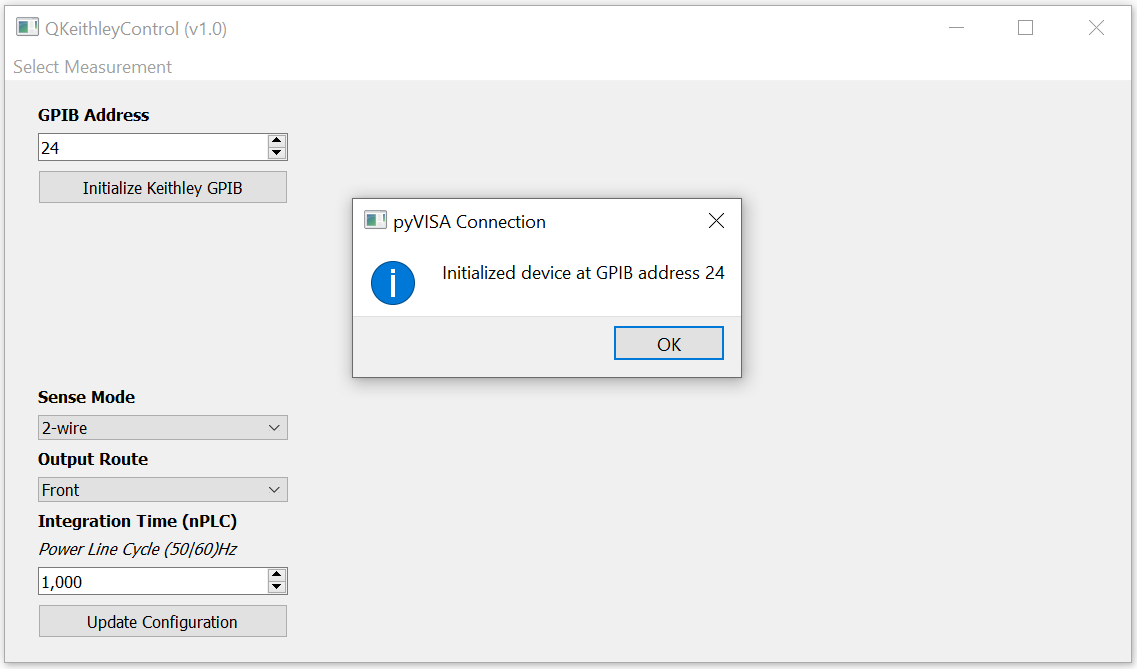
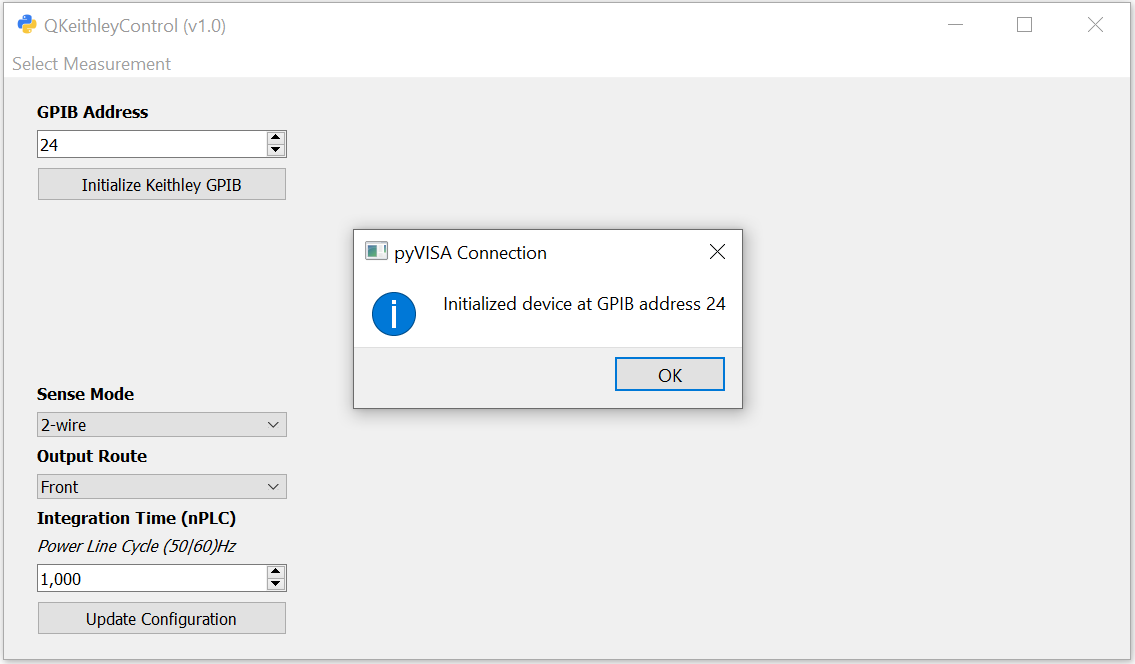
v1.0

diff --git a/QKeithleyControl/modules/QKeithleyControl.py b/QKeithleyControl/modules/QKeithleyControl.py
@@ -41,6 +41,7 @@ import os
 import sys
 from PyQt5.QtWidgets import QApplication, QWidget, QMainWindow, QAction, QStackedWidget, QMessageBox
 from PyQt5.QtCore import Qt
+from PyQt5.QtGui import QIcon
 
 # Import matplotlibQT backends
 from matplotlib.backends.backend_qt5agg import FigureCanvasQTAgg as FigureCanvas
@@ -59,9 +60,11 @@ class QKeithleyControl(QMainWindow):
 		self.app = _application
 		self.version = '1.0'
 		
-		# Window Title
+		# Window title and python icon
+		self.icon = os.path.join(os.path.dirname(os.path.realpath(__file__)), "python.ico")		
 		self.setWindowTitle("QKeithleyControl (v%s)"%self.version)
-		
+		self.setWindowIcon(QIcon(self.icon))
+
 		# Generate main menu and toplevel widget. We will 
 		# Render our controls into self.toplevel on menu selection
 		self._gen_menu()		
@@ -96,6 +99,7 @@ class QKeithleyControl(QMainWindow):
 
 			# If Keitheley handle is initialized, pass to bias widget. 
 			if self.keithley is not None:
+				self.keithley.reset()
 				self.ui_bias._set_keithley_handle(self.keithley)
 				self.ui_stack.setCurrentIndex(1)
 
@@ -111,6 +115,7 @@ class QKeithleyControl(QMainWindow):
 
 			# If Keitheley handle is initialized, pass to sweep widget. 
 			if self.keithley is not None:
+				self.keithley.reset()
 				self.ui_sweep._set_keithley_handle(self.keithley)
 				self.ui_stack.setCurrentIndex(2)
 

diff --git a/QKeithleyControl/modules/QKeithleyConfig.py b/QKeithleyControl/modules/QKeithleyConfig.py
@@ -36,7 +36,6 @@ import sys
 from PyQt5.QtWidgets import QWidget, QMessageBox, QVBoxLayout, QHBoxLayout, QComboBox, QSpinBox, QDoubleSpinBox, QPushButton, QLabel,  QSizePolicy
 from PyQt5.QtCore import Qt, QSize
 
-
 # Container class to construct sweep measurement widget
 class QKeithleyConfig(QWidget):
 
